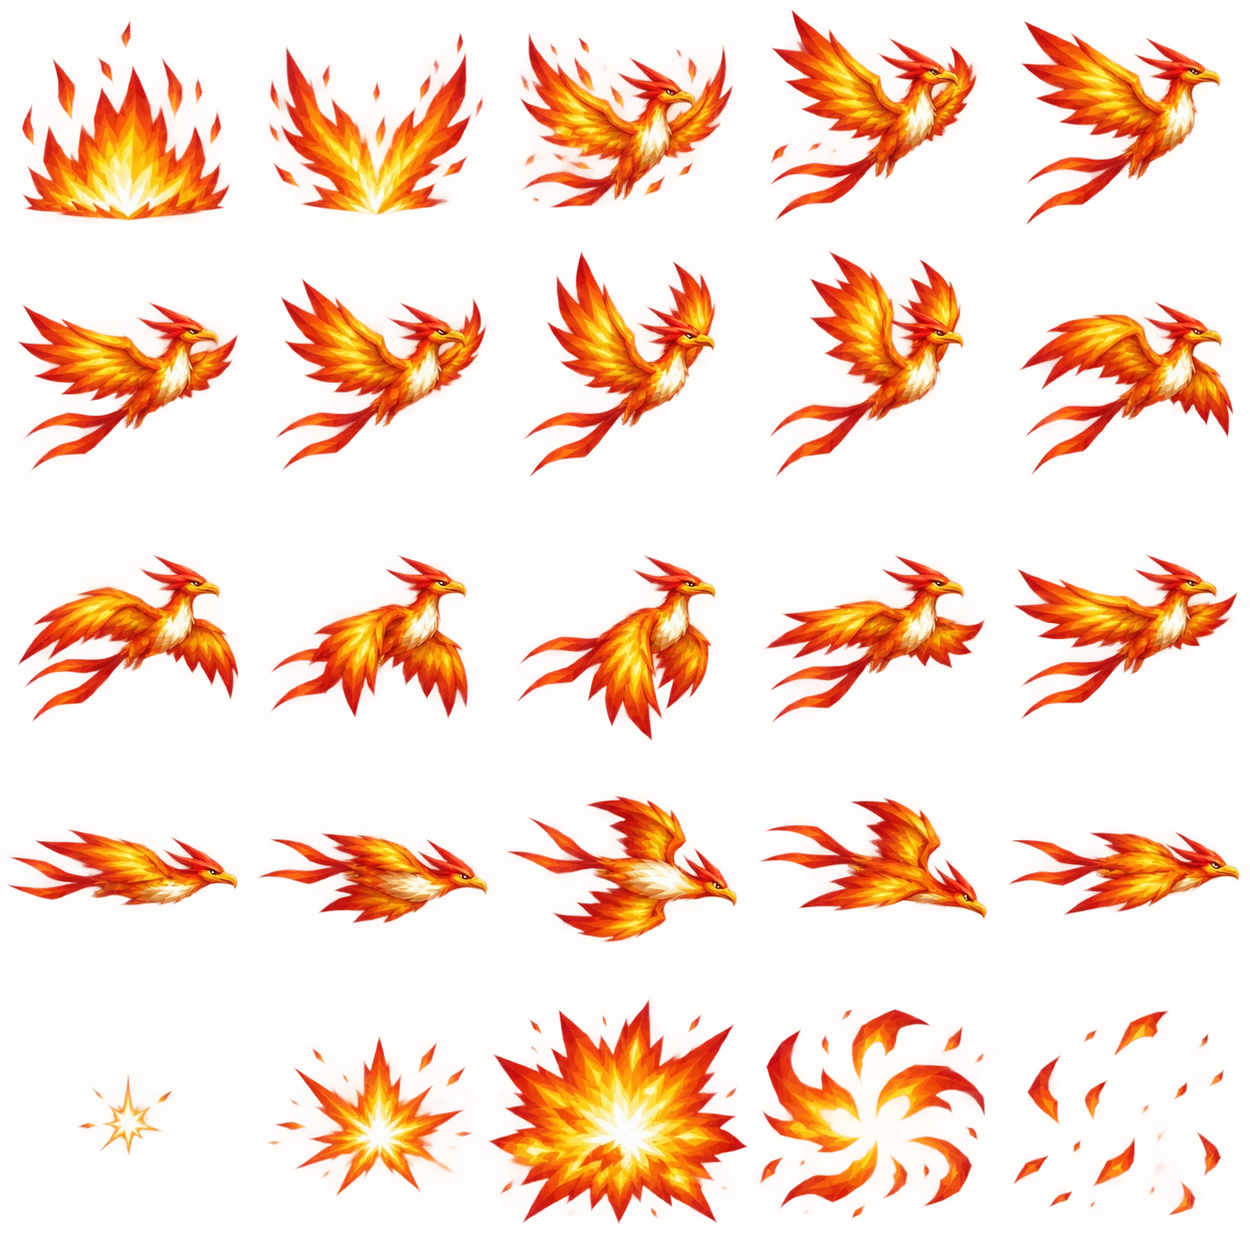
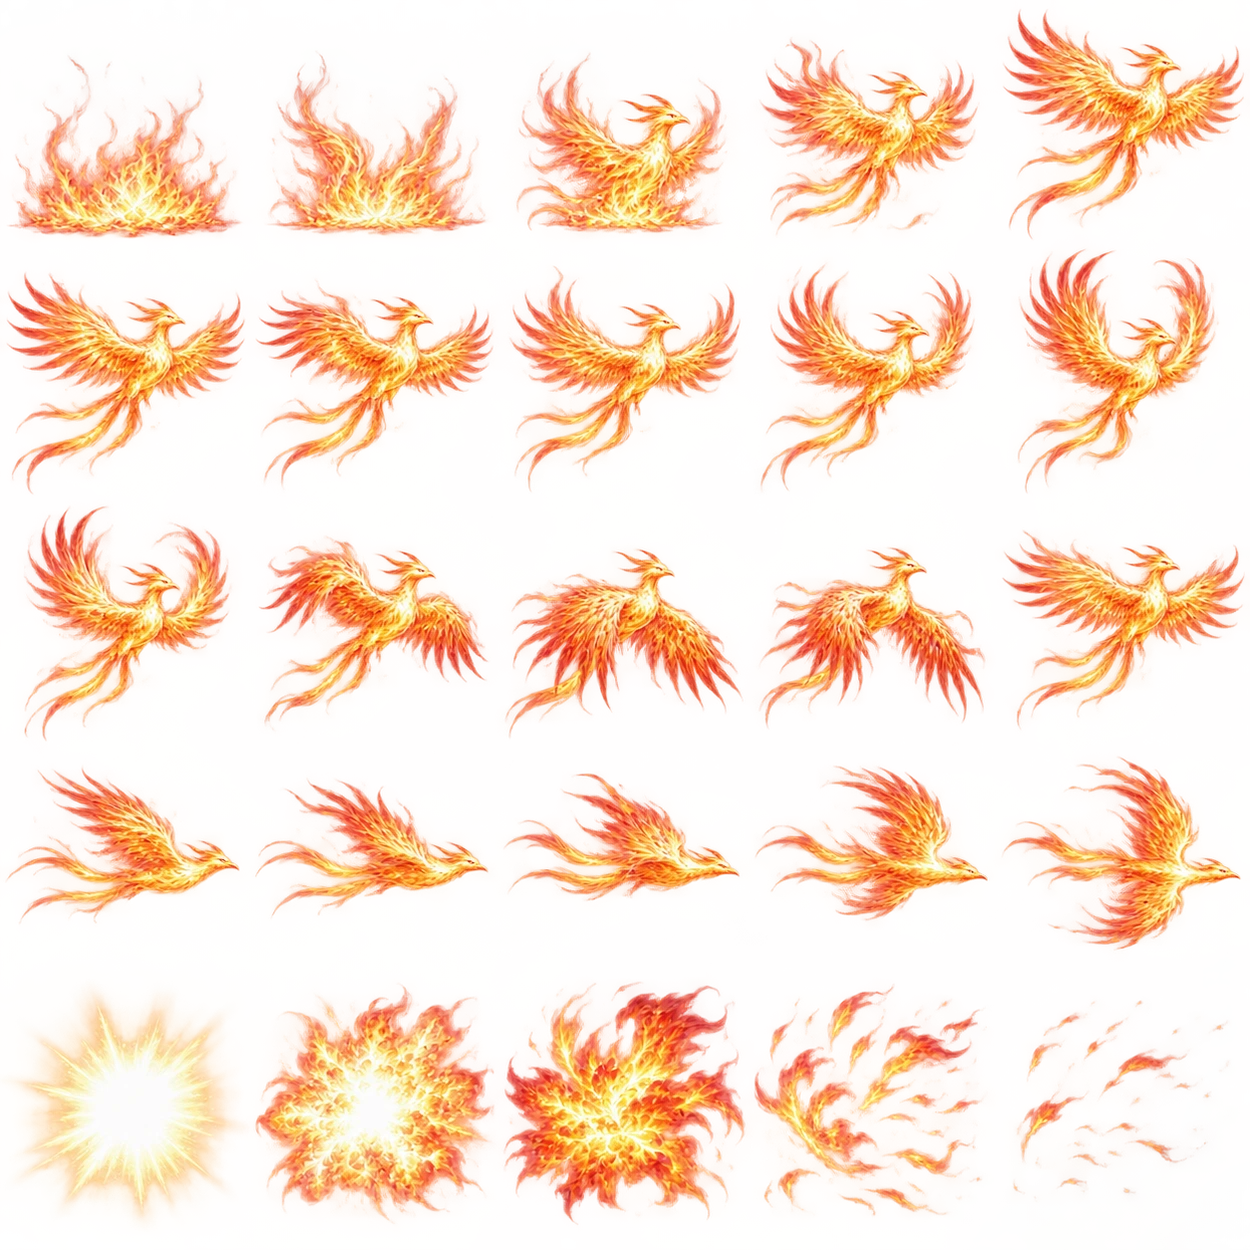
Redraw Burning Pheonix with layered flight feathers formed from fire

diff --git a/arena.html b/arena.html
@@ -248,7 +248,7 @@
 <script src="./assets/grill-master.js?v=0.153.0" defer></script>
 <script src="./assets/decay-strength.js?v=0.180.0" defer></script>
 <script src="./assets/acid-air.js?v=0.180.0" defer></script>
-<script src="./assets/burning-pheonix.js?v=0.183.0" defer></script>
+<script src="./assets/burning-pheonix.js?v=0.184.0" defer></script>
 <script src="./assets/cyclops.js?v=0.180.0" defer></script>
 <script src="./assets/boulder-weight.js?v=0.180.0" defer></script>
 <script src="./assets/heizmann.js?v=0.180.0" defer></script>

diff --git a/assets/burning-pheonix.js b/assets/burning-pheonix.js
@@ -1,7 +1,7 @@
 (()=>{
   const atlas=new Image(),ready=[];
   atlas.onload=()=>ready.splice(0).forEach(fn=>fn());
-  atlas.src='./assets/pheonix-sequence.webp';
+  atlas.src='./assets/pheonix-sequence.webp?v=0.184.0';
   const clamp=x=>Math.max(0,Math.min(1,x)),mix=(a,b,q)=>a+(b-a)*q;
   const smooth=x=>x*x*(3-2*x),tau=Math.PI*2;
   function frame(g,i,size,anchor=.5){
